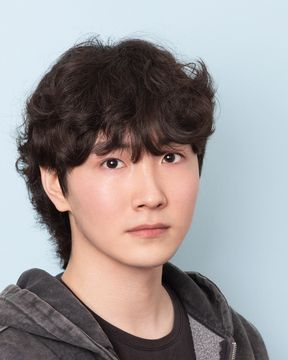
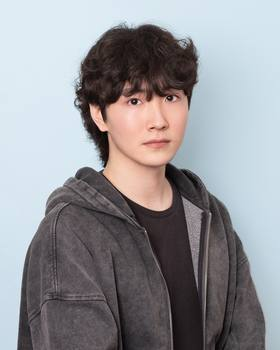
Show the full portrait without cropping

diff --git a/index.html b/index.html
@@ -53,7 +53,7 @@
   /* Hero */
   .hero { display: flex; gap: 32px; align-items: center; padding: 28px 0 34px; border-bottom: 1px solid var(--line); }
   .avatar {
-    flex: none; width: 144px; height: 180px; border-radius: 16px; overflow: hidden;
+    flex: none; width: 168px; height: 210px; border-radius: 16px; overflow: hidden;
     background: var(--accent-soft); color: var(--accent);
     display: grid; place-items: center;
     font: 600 38px/1 "Newsreader", Georgia, serif;
@@ -125,7 +125,7 @@
   }
   @media (max-width: 560px) {
     .hero { flex-direction: column; align-items: flex-start; gap: 18px; }
-    .avatar { width: 112px; height: 140px; border-radius: 14px; }
+    .avatar { width: 128px; height: 160px; border-radius: 14px; }
     h1 { font-size: 36px; }
     .pub { grid-template-columns: 1fr; gap: 4px; }
   }
